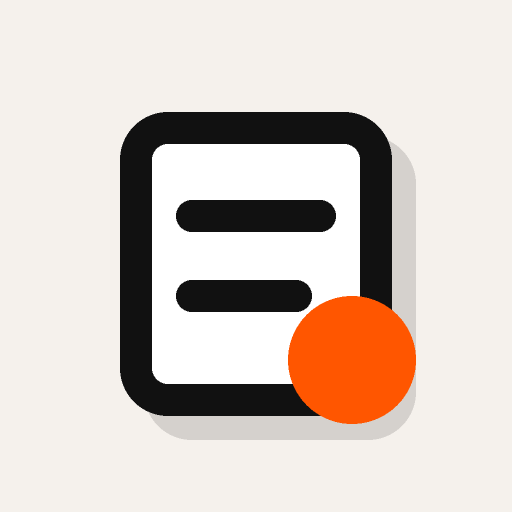
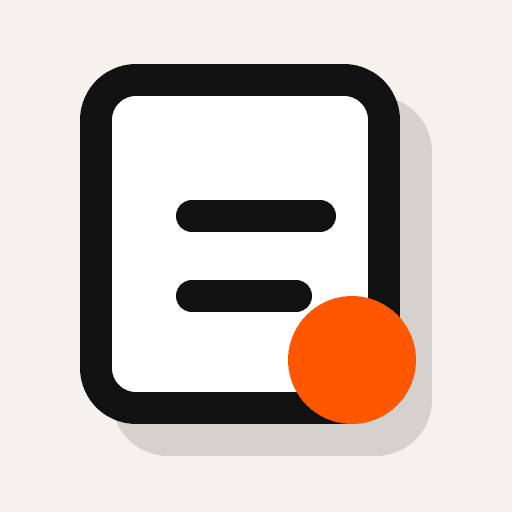
feat: add plum design style

Changed region(s): [[0.1562, 0.125, 0.8438, 0.9062]]

diff --git a/src/index.css b/src/index.css
@@ -69,6 +69,7 @@
   --app-icon-tile-bg: #ebe7e1;
   --app-icon-tile-border: #d3cec6;
   --app-icon-tile-fg: #111111;
+  --app-icon-tile-shadow: none;
   --app-search-bg: var(--card);
   --app-segment-selected-bg: var(--muted);
   --app-segment-selected-shadow: 0 1px 2px rgb(0 0 0 / 0.08);
@@ -110,6 +111,7 @@
   --app-icon-tile-bg: #e8e1d8;
   --app-icon-tile-border: #6a625a;
   --app-icon-tile-fg: #161513;
+  --app-icon-tile-shadow: none;
   --app-search-bg: var(--card);
   --app-segment-selected-bg: var(--muted);
   --app-segment-selected-shadow: 0 1px 2px rgb(0 0 0 / 0.2);
@@ -122,7 +124,7 @@
   --app-top-bar-bg: var(--background);
 }
 
-[data-design-style="prism"] {
+[data-design-style="slate"] {
   --background: #ffffff;
   --foreground: #111827;
   --card: #ffffff;
@@ -151,6 +153,7 @@
   --app-icon-tile-bg: #f6f6f6;
   --app-icon-tile-border: #e2e2e2;
   --app-icon-tile-fg: #111827;
+  --app-icon-tile-shadow: none;
   --app-search-bg: #f6f6f6;
   --app-segment-selected-bg: #e4e4e4;
   --app-segment-selected-shadow: 0 1px 3px rgb(36 36 36 / 0.12);
@@ -163,7 +166,7 @@
   --app-top-bar-bg: #f6f6f6;
 }
 
-[data-design-style="prism"].dark {
+[data-design-style="slate"].dark {
   --background: #242424;
   --foreground: #f4f4f5;
   --card: #2c2c2c;
@@ -192,6 +195,7 @@
   --app-icon-tile-bg: var(--primary);
   --app-icon-tile-border: #c6c6c6;
   --app-icon-tile-fg: var(--primary-foreground);
+  --app-icon-tile-shadow: none;
   --app-search-bg: #303030;
   --app-segment-selected-bg: #4a4a4a;
   --app-segment-selected-shadow: 0 1px 4px rgb(0 0 0 / 0.26);
@@ -202,6 +206,90 @@
   --app-settings-nav-hover-bg: #3a3a3a;
   --app-settings-nav-hover-fg: #f4f4f5;
   --app-top-bar-bg: #2a2a2a;
+}
+
+[data-design-style="cobalt"] {
+  --background: #ffffff;
+  --foreground: #111827;
+  --card: #ffffff;
+  --card-foreground: #111827;
+  --popover: #ffffff;
+  --popover-foreground: #111827;
+  --primary: #1d4ed8;
+  --primary-foreground: #ffffff;
+  --secondary: #f7f9fc;
+  --secondary-foreground: #111827;
+  --muted: #f7f9fc;
+  --muted-foreground: #667085;
+  --accent: #1d4ed8;
+  --accent-foreground: #ffffff;
+  --destructive: #dc2626;
+  --border: #e3e8ef;
+  --input: #d5deea;
+  --ring: #5b8def;
+  --chart-1: #1d4ed8;
+  --chart-2: #5b8def;
+  --chart-3: #38bdf8;
+  --chart-4: #64748b;
+  --chart-5: #111827;
+  --app-background-image: none;
+  --app-card-hover-shadow: 0 14px 30px -22px rgb(29 78 216 / 0.34);
+  --app-icon-tile-bg: #ffffff;
+  --app-icon-tile-border: #d5deea;
+  --app-icon-tile-fg: #1d4ed8;
+  --app-icon-tile-shadow: inset 0 0 0 4px #f2f6ff;
+  --app-search-bg: #ffffff;
+  --app-segment-selected-bg: #eef4ff;
+  --app-segment-selected-shadow: 0 1px 4px rgb(29 78 216 / 0.14);
+  --app-settings-nav-active-bg: #1d4ed8;
+  --app-settings-nav-active-fg: #ffffff;
+  --app-settings-nav-active-shadow: 0 12px 24px -18px rgb(29 78 216 / 0.48);
+  --app-settings-nav-bg: #ffffff;
+  --app-settings-nav-hover-bg: #eef4ff;
+  --app-settings-nav-hover-fg: #111827;
+  --app-top-bar-bg: #ffffff;
+}
+
+[data-design-style="cobalt"].dark {
+  --background: #111827;
+  --foreground: #f8fafc;
+  --card: #1f2937;
+  --card-foreground: #f8fafc;
+  --popover: #253145;
+  --popover-foreground: #f8fafc;
+  --primary: #5b8def;
+  --primary-foreground: #111827;
+  --secondary: #253145;
+  --secondary-foreground: #f8fafc;
+  --muted: #253145;
+  --muted-foreground: #c1cad8;
+  --accent: #5b8def;
+  --accent-foreground: #111827;
+  --destructive: #f87171;
+  --border: #374151;
+  --input: #4b5563;
+  --ring: #93b4f8;
+  --chart-1: #5b8def;
+  --chart-2: #93b4f8;
+  --chart-3: #38bdf8;
+  --chart-4: #c1cad8;
+  --chart-5: #64748b;
+  --app-background-image: none;
+  --app-card-hover-shadow: 0 18px 36px -24px rgb(0 0 0 / 0.78);
+  --app-icon-tile-bg: #1f2937;
+  --app-icon-tile-border: #506074;
+  --app-icon-tile-fg: #93b4f8;
+  --app-icon-tile-shadow: inset 0 0 0 4px #18202c;
+  --app-search-bg: #1f2937;
+  --app-segment-selected-bg: #334155;
+  --app-segment-selected-shadow: 0 1px 5px rgb(0 0 0 / 0.28);
+  --app-settings-nav-active-bg: #5b8def;
+  --app-settings-nav-active-fg: #111827;
+  --app-settings-nav-active-shadow: 0 12px 24px -18px rgb(91 141 239 / 0.55);
+  --app-settings-nav-bg: #172033;
+  --app-settings-nav-hover-bg: #253145;
+  --app-settings-nav-hover-fg: #f8fafc;
+  --app-top-bar-bg: #111827;
 }
 
 @layer base {
@@ -257,6 +345,7 @@
   .app-icon-tile {
     border-color: var(--app-icon-tile-border);
     background: var(--app-icon-tile-bg);
+    box-shadow: var(--app-icon-tile-shadow);
     color: var(--app-icon-tile-fg);
   }
 

diff --git a/src/domain/settings/design-style.ts b/src/domain/settings/design-style.ts
@@ -1,8 +1,8 @@
 // Defines app design style options and validation helpers.
 
-export type DesignStylePreference = 'editorial' | 'prism'
+export type DesignStylePreference = 'paper' | 'slate' | 'cobalt'
 
-export const DEFAULT_DESIGN_STYLE_PREFERENCE: DesignStylePreference = 'editorial'
+export const DEFAULT_DESIGN_STYLE_PREFERENCE: DesignStylePreference = 'paper'
 
 export const DESIGN_STYLE_OPTIONS: Array<{
   value: DesignStylePreference
@@ -10,14 +10,19 @@ export const DESIGN_STYLE_OPTIONS: Array<{
   description: string
 }> = [
   {
-    value: 'editorial',
-    label: 'Editorial',
-    description: 'Warm editorial canvas with charcoal type and orange accents',
+    value: 'paper',
+    label: 'Paper',
+    description: 'Warm paper canvas with charcoal type and orange accents',
   },
   {
-    value: 'prism',
-    label: 'Prism',
-    description: 'Crisp blue-green workspace with bright cards and soft icons',
+    value: 'slate',
+    label: 'Slate',
+    description: 'Calm grayscale workspace with bright cards and crisp contrast',
+  },
+  {
+    value: 'cobalt',
+    label: 'Cobalt',
+    description: 'Crisp white workspace with balanced cobalt actions and calm blue surfaces',
   },
 ]
 
@@ -28,13 +33,17 @@ export const DESIGN_STYLE_ASSETS: Record<
     logo: string
   }
 > = {
-  editorial: {
-    favicon: 'brand/logo-editorial.svg',
-    logo: 'brand/logo-editorial.svg',
+  paper: {
+    favicon: 'brand/logo-paper.svg',
+    logo: 'brand/logo-paper.svg',
   },
-  prism: {
-    favicon: 'brand/logo-prism.svg',
-    logo: 'brand/logo-prism.svg',
+  slate: {
+    favicon: 'brand/logo-slate.svg',
+    logo: 'brand/logo-slate.svg',
+  },
+  cobalt: {
+    favicon: 'brand/logo-cobalt.svg',
+    logo: 'brand/logo-cobalt.svg',
   },
 }
 

diff --git a/src/app/deck/components/link-card/add-link-card.tsx b/src/app/deck/components/link-card/add-link-card.tsx
@@ -23,7 +23,7 @@ export function AddLinkCard({ displaySizeConfig, categoryName, onAddLink }: AddL
       aria-label={t('deck.addCard.description', { categoryName })}
       tabIndex={-1}
       className={cn(
-        'group flex h-full w-full cursor-pointer items-center rounded-md border border-dashed border-border/70 bg-transparent text-left text-muted-foreground outline-none transition-[background-color,border-color,box-shadow,color,translate] duration-300 ease-app-hover hover:-translate-y-px hover:border-accent/35 hover:bg-card/35 hover:text-foreground hover:shadow-[var(--app-card-hover-shadow)] focus-visible:border-ring/40 focus-visible:ring-[3px] focus-visible:ring-ring/35 motion-reduce:hover:translate-y-0 motion-reduce:transition-none',
+        'group flex h-full w-full cursor-pointer items-center rounded-md border border-dashed border-border/70 bg-transparent text-left text-muted-foreground outline-none transition-[background-color,border-color,box-shadow,color,translate] duration-300 ease-app-hover hover:-translate-y-px hover:border-accent/35 hover:bg-card/35 hover:text-foreground hover:shadow-(--app-card-hover-shadow) focus-visible:border-ring/40 focus-visible:ring-[3px] focus-visible:ring-ring/35 motion-reduce:hover:translate-y-0 motion-reduce:transition-none',
         cardConfig.paddingClassName,
         cardConfig.contentGapClassName,
       )}

diff --git a/src/app/deck/components/link-card/link-card.tsx b/src/app/deck/components/link-card/link-card.tsx
@@ -150,7 +150,7 @@ export function LinkCard({
       ref={cardDragRef}
       {...cardDragAttributes}
       className={cn(
-        'group flex h-full w-full rounded-md border bg-card text-card-foreground outline-none transition-[background-color,border-color,box-shadow,translate] duration-300 ease-app-hover hover:-translate-y-px hover:border-accent/35 hover:bg-card/95 hover:shadow-[var(--app-card-hover-shadow)] focus-within:border-ring/50 focus-within:shadow-sm has-[a:focus-visible]:ring-[3px] has-[a:focus-visible]:ring-ring/50 motion-reduce:hover:translate-y-0 motion-reduce:transition-none',
+        'group flex h-full w-full rounded-md border bg-card text-card-foreground outline-none transition-[background-color,border-color,box-shadow,translate] duration-300 ease-app-hover hover:-translate-y-px hover:border-accent/35 hover:bg-card/95 hover:shadow-(--app-card-hover-shadow) focus-within:border-ring/50 focus-within:shadow-sm has-[a:focus-visible]:ring-[3px] has-[a:focus-visible]:ring-ring/50 motion-reduce:hover:translate-y-0 motion-reduce:transition-none',
         cardDragProps && 'cursor-grab touch-none active:cursor-grabbing',
         isDragging && 'border-accent',
       )}

diff --git a/src/services/theme-color.ts b/src/services/theme-color.ts
@@ -12,9 +12,16 @@ import {
   type DesignStylePreference,
 } from '@/domain/settings/design-style'
 
-const PRISM_THEME_COLOR_BY_RESOLVED_THEME: Record<ResolvedThemeColor, string> = {
-  light: '#f6f6f6',
-  dark: '#242424',
+const THEME_COLOR_BY_DESIGN_STYLE: Record<DesignStylePreference, Record<ResolvedThemeColor, string>> = {
+  paper: THEME_COLOR_BY_RESOLVED_THEME,
+  slate: {
+    light: '#f6f6f6',
+    dark: '#242424',
+  },
+  cobalt: {
+    light: '#ffffff',
+    dark: '#111827',
+  },
 }
 
 /** Applies the selected or system-resolved theme color mode to the document root. */
@@ -87,10 +94,7 @@ function updateThemeColor(resolvedTheme: ResolvedThemeColor, designStylePreferen
     return
   }
 
-  themeColor.content =
-    designStylePreference === 'prism'
-      ? PRISM_THEME_COLOR_BY_RESOLVED_THEME[resolvedTheme]
-      : THEME_COLOR_BY_RESOLVED_THEME[resolvedTheme]
+  themeColor.content = THEME_COLOR_BY_DESIGN_STYLE[designStylePreference][resolvedTheme]
 }
 
 /** Keeps the browser favicon aligned with the selected design style. */

diff --git a/src/app/settings/components/style-picker.tsx b/src/app/settings/components/style-picker.tsx
@@ -1,6 +1,6 @@
 // Segmented picker for the app design style preference.
 
-import { GalleryHorizontalEnd, Sparkles } from 'lucide-react'
+import { GalleryHorizontalEnd, Orbit, SquareStack } from 'lucide-react'
 import { useTranslation } from 'react-i18next'
 
 import { DESIGN_STYLE_OPTIONS, type DesignStylePreference } from '@/domain/settings/design-style'
@@ -13,8 +13,9 @@ type StylePickerProps = {
 }
 
 const STYLE_ICONS = {
-  editorial: GalleryHorizontalEnd,
-  prism: Sparkles,
+  paper: GalleryHorizontalEnd,
+  slate: SquareStack,
+  cobalt: Orbit,
 } satisfies Record<DesignStylePreference, typeof GalleryHorizontalEnd>
 
 /** Lets users switch the visual skin independently from light or dark color mode. */

diff --git a/src/app/settings/shortcuts-settings-panel.tsx b/src/app/settings/shortcuts-settings-panel.tsx
@@ -14,7 +14,7 @@ export function ShortcutsSettingsPanel() {
         {KEYBOARD_SHORTCUTS.map(shortcut => (
           <div
             key={shortcut.id}
-            className="flex min-h-[3.75rem] flex-col gap-3 rounded-md bg-muted/30 px-3 py-3 sm:flex-row sm:items-center sm:justify-between"
+            className="flex min-h-15 flex-col gap-3 rounded-md bg-muted/30 px-3 py-3 sm:flex-row sm:items-center sm:justify-between"
           >
             <div className="min-w-0">
               <p className="text-sm font-medium">{t(`shortcuts.${shortcut.id}`)}</p>

diff --git a/src/app/deck/components/link-search-box.tsx b/src/app/deck/components/link-search-box.tsx
@@ -73,7 +73,7 @@ export function LinkSearchBox({ value, onChange, onFocus, displaySizeConfig }: L
           aria-keyshortcuts={`${getKeyboardShortcutAriaKeys('search')} ${getKeyboardShortcutAriaKeys('createLink')}`}
           placeholder={t('deck.search.placeholder')}
           className={cn(
-            '!bg-[var(--app-search-bg)] shadow-none',
+            'bg-(--app-search-bg)! shadow-none',
             displaySizeConfig.control.inputClassName,
             displaySizeConfig.control.searchInputClassName,
           )}

diff --git a/src/app/settings/data-settings-panel.tsx b/src/app/settings/data-settings-panel.tsx
@@ -106,7 +106,7 @@ type DataSettingsActionRowProps = {
 
 function DataSettingsActionRow({ title, children }: DataSettingsActionRowProps) {
   return (
-    <div className="flex min-h-[3.75rem] flex-col gap-3 rounded-md bg-muted/30 px-3 py-3 sm:flex-row sm:items-center sm:justify-between">
+    <div className="flex min-h-15 flex-col gap-3 rounded-md bg-muted/30 px-3 py-3 sm:flex-row sm:items-center sm:justify-between">
       <p className="min-w-0 text-sm font-medium">{title}</p>
       {children}
     </div>

diff --git a/src/app/settings/settings-dialog-controller.tsx b/src/app/settings/settings-dialog-controller.tsx
@@ -171,7 +171,7 @@ export function SettingsDialogController({
     <>
       <DialogContent
         aria-describedby={undefined}
-        className="grid h-[592px] w-[672px] max-w-none grid-rows-[auto_minmax(0,1fr)_auto] gap-0 overflow-hidden p-0 sm:max-w-none"
+        className="grid h-148 w-2xl max-w-none grid-rows-[auto_minmax(0,1fr)_auto] gap-0 overflow-hidden p-0 sm:max-w-none"
         showCloseButton={false}
         onOpenAutoFocus={event => {
           event.preventDefault()

diff --git a/README.md b/README.md
@@ -22,7 +22,7 @@ Use it as:
 ## Product Highlights
 
 - **Clean by default**: A quiet layout with generous spacing, simple cards, and clear grouping.
-- **Modern visual style**: Refined surfaces, compact controls, crisp icon treatment, and two built-in styles: Editorial and Prism.
+- **Modern visual style**: Refined surfaces, compact controls, crisp icon treatment, and three built-in styles: Paper, Slate, and Cobalt.
 - **Fast daily access**: Search, open, add, and delete links with keyboard shortcuts.
 - **Organized collections**: Keep links in categories such as tools, social, video, discovery, or your own custom groups.
 - **Friendly link cards**: Each link can include a title, URL, notes, category, and icon.
